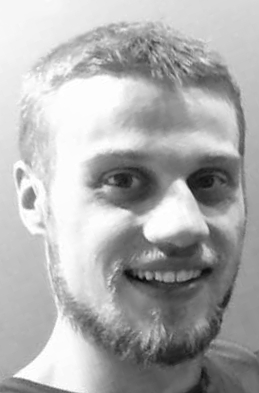
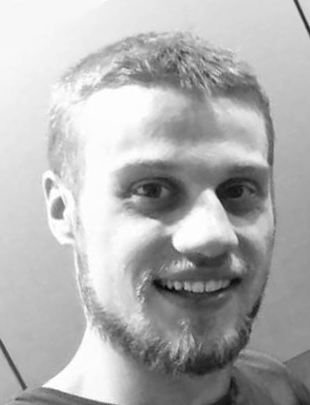
Change photo

diff --git a/css/styles.css b/css/styles.css
@@ -47,7 +47,7 @@ main {
 }
 
 main > .photo {
-	width: 125px;
+	width: 140px;
 	margin: 1.2rem auto;
 	border-radius: 50%;
 	border: 5px solid white;
